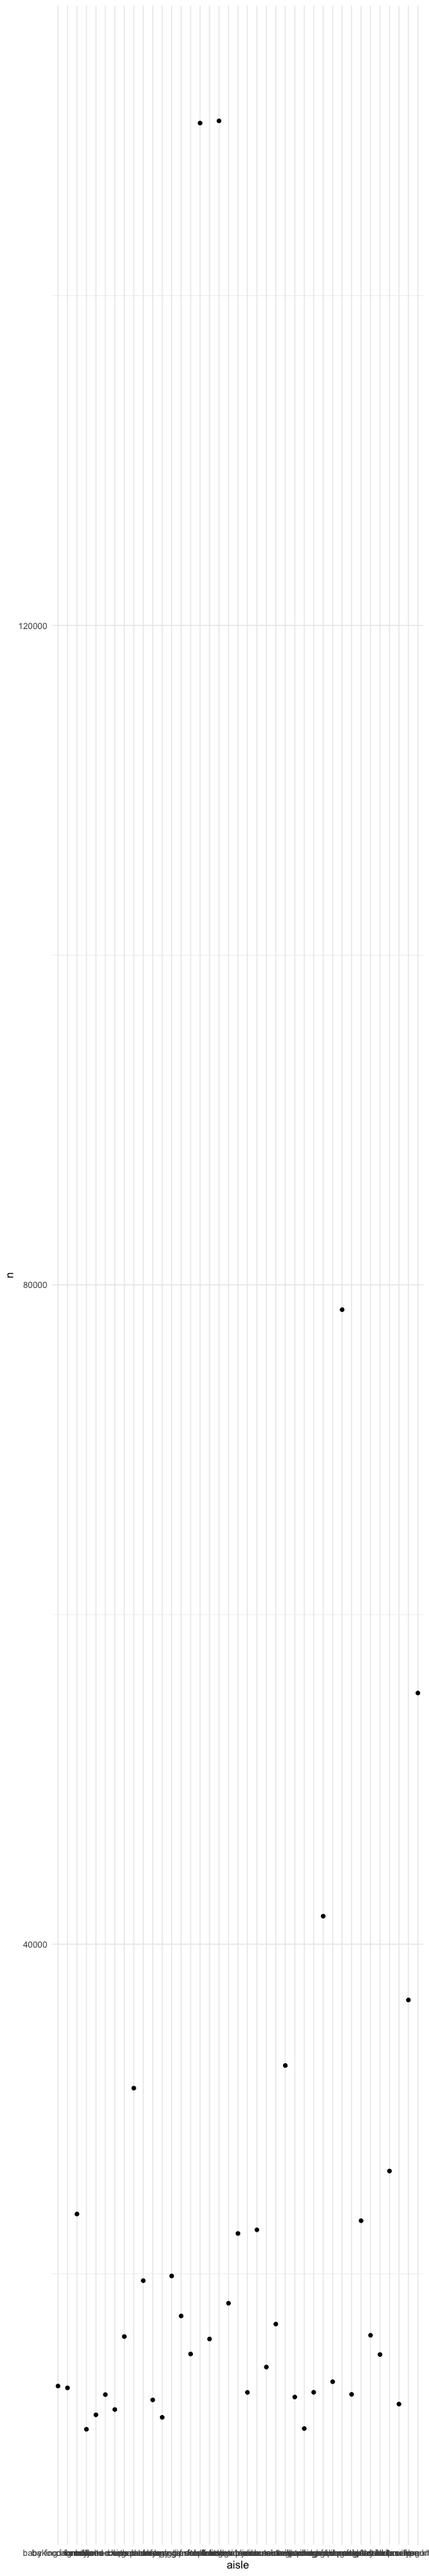
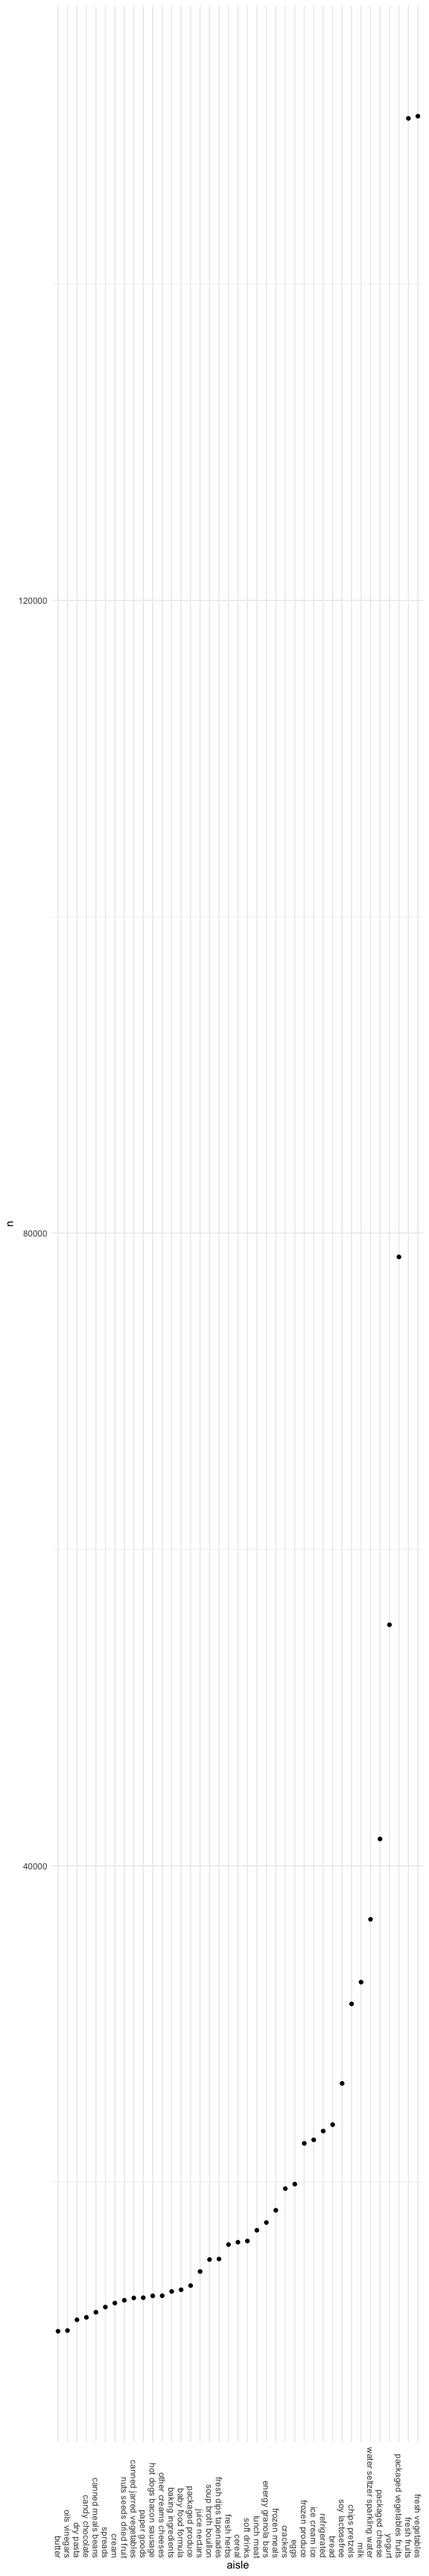
problem 1 plot

Changed region(s): [[0.125, 0.9375, 1.0, 1.0]]

diff --git a/p8105_hw3_xy2476.md b/p8105_hw3_xy2476.md
@@ -45,8 +45,15 @@ Let’s make a plot
 instacart %>% 
   count(aisle) %>% 
   filter(n > 10000) %>% 
+  mutate(
+    aisle = factor(aisle),
+    aisle = fct_reorder(aisle, n)
+  ) %>% 
   ggplot(aes(x = aisle, y = n)) +
-  geom_point()
+  geom_point() +
+  theme(axis.text.x = element_text(angle = 270, vjust = 0.5, hjust = 1))
 ```
 
 <img src="p8105_hw3_xy2476_files/figure-gfm/unnamed-chunk-3-1.png" width="90%" />
+
+Let’s make a table
